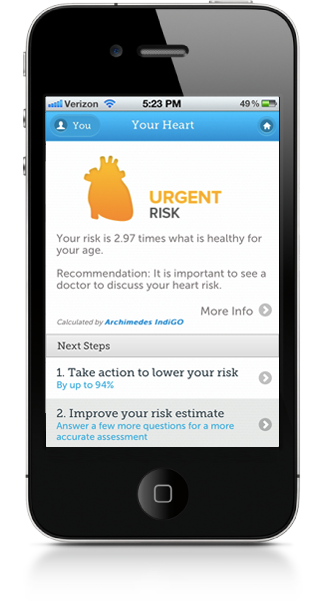
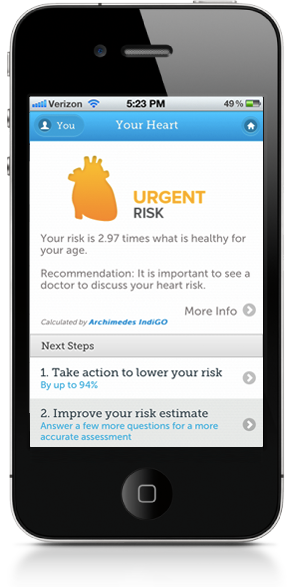
next update:date

diff --git a/client/css/main.css b/client/css/main.css
@@ -172,8 +172,8 @@ a.brand {
 }
 
 #iphone_screenshot {
-	height: 611px;
-	width: 325px;
+	height: 587px;
+	width: 292px;
 	background: url('../website/screenshot-app.png') no-repeat;
 	margin: 0 auto;
 }

diff --git a/css/main.css b/css/main.css
@@ -172,8 +172,8 @@ a.brand {
 }
 
 #iphone_screenshot {
-	height: 611px;
-	width: 325px;
+	height: 587px;
+	width: 292px;
 	background: url('../website/screenshot-app.png') no-repeat;
 	margin: 0 auto;
 }
